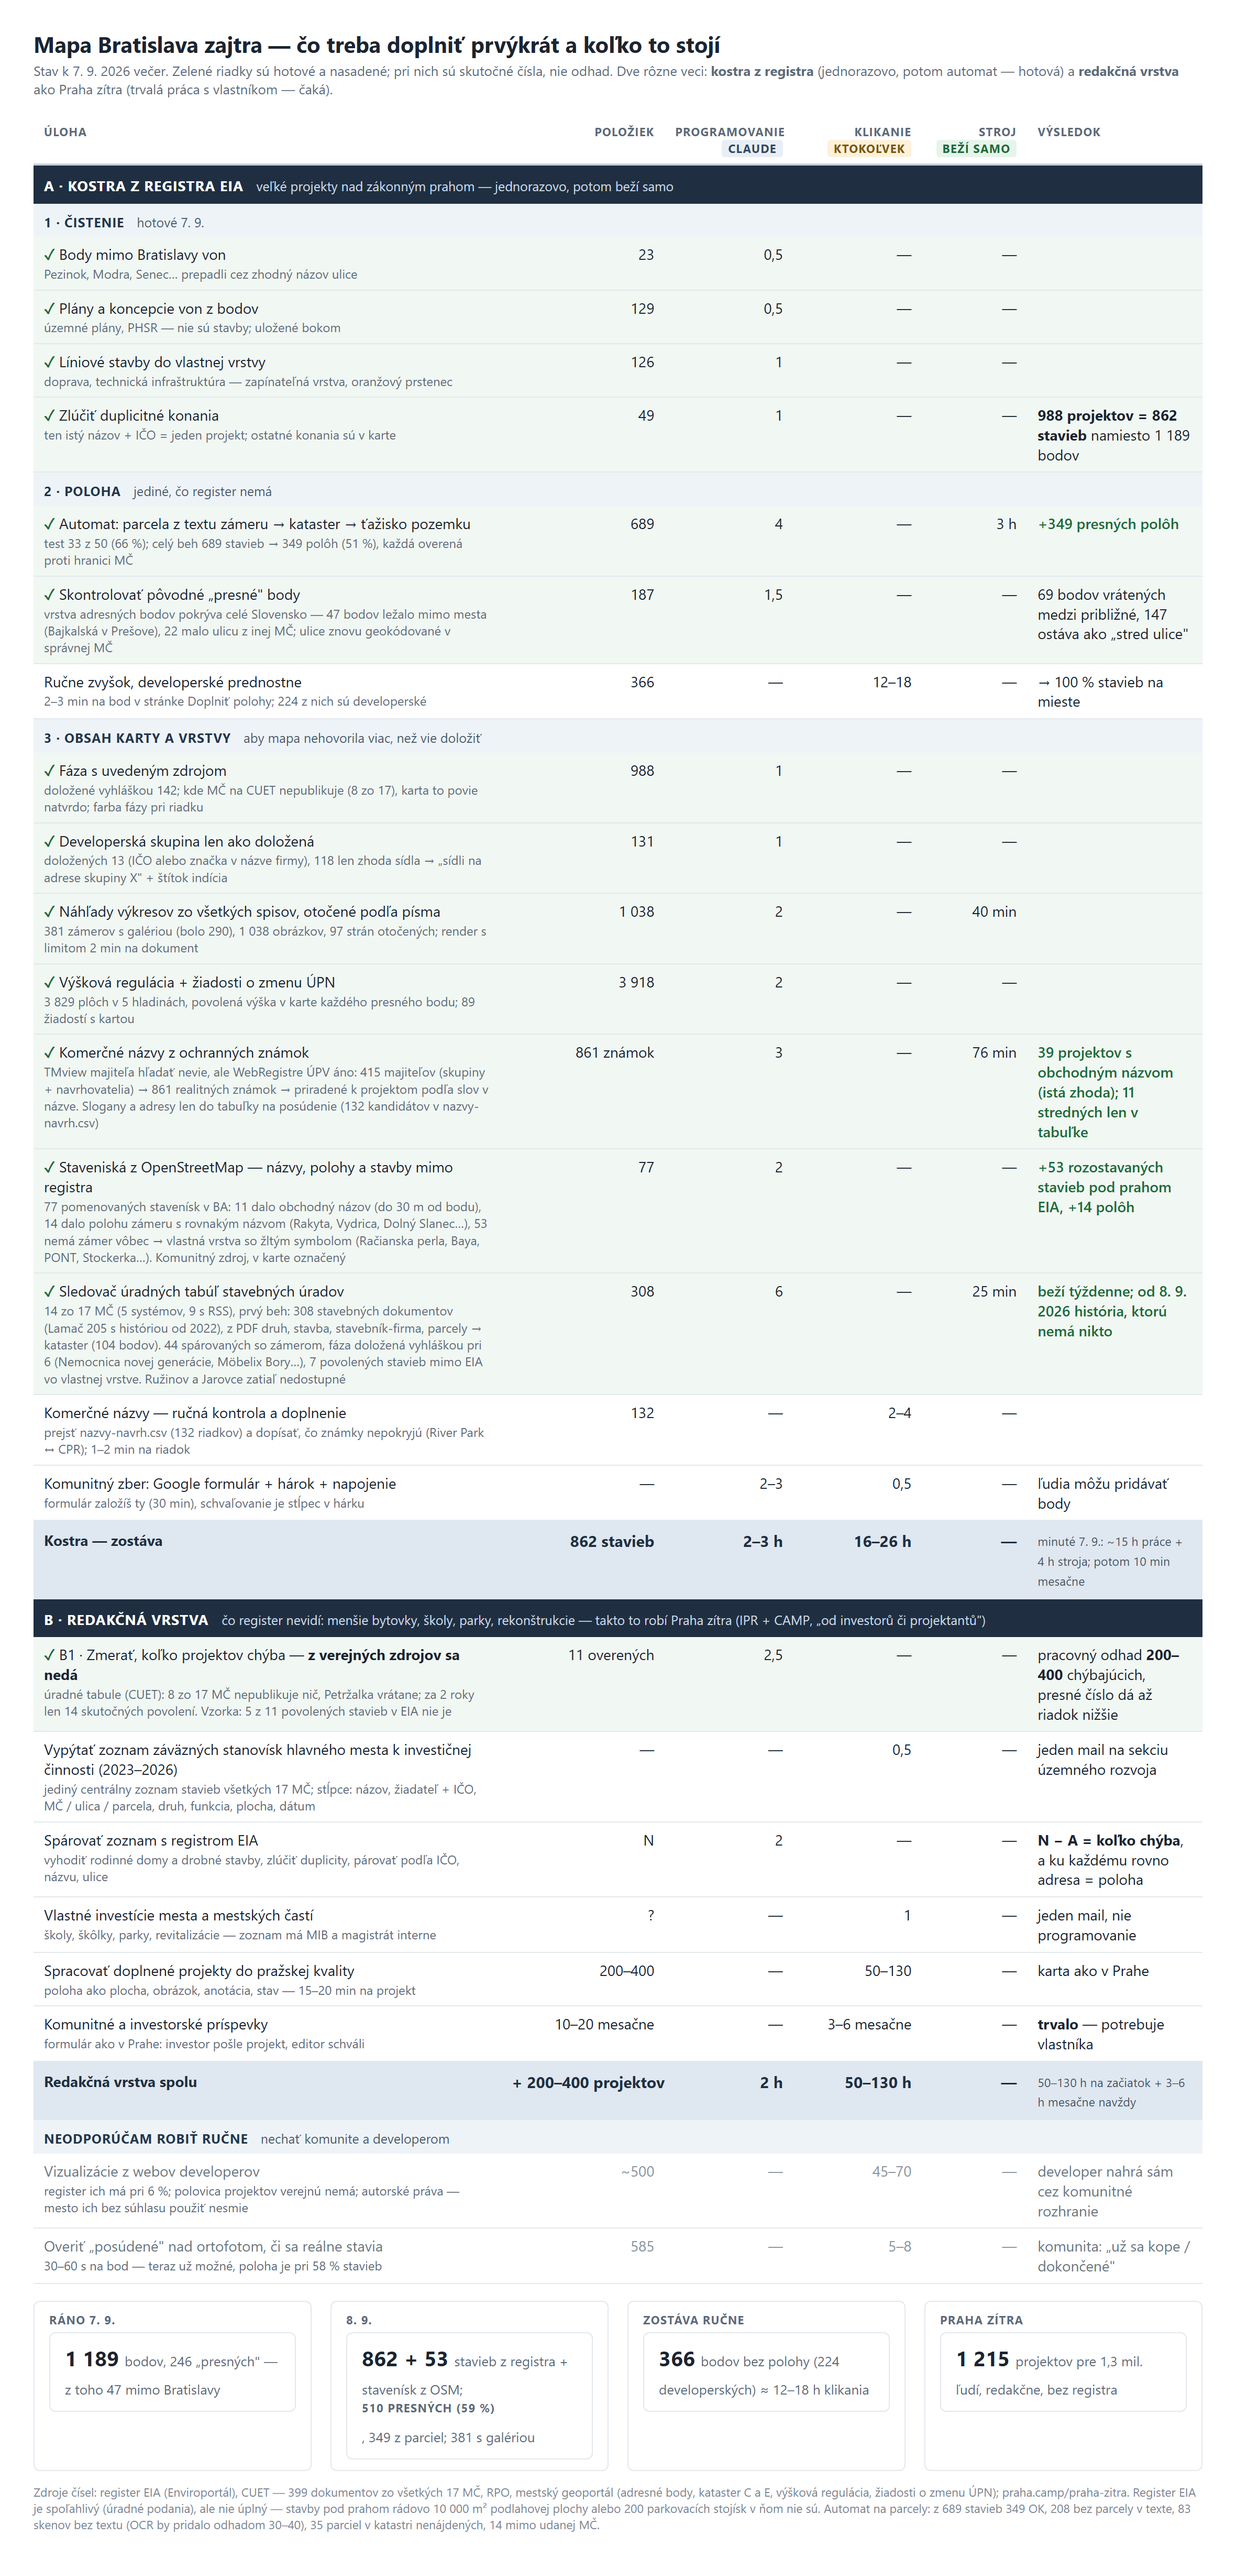
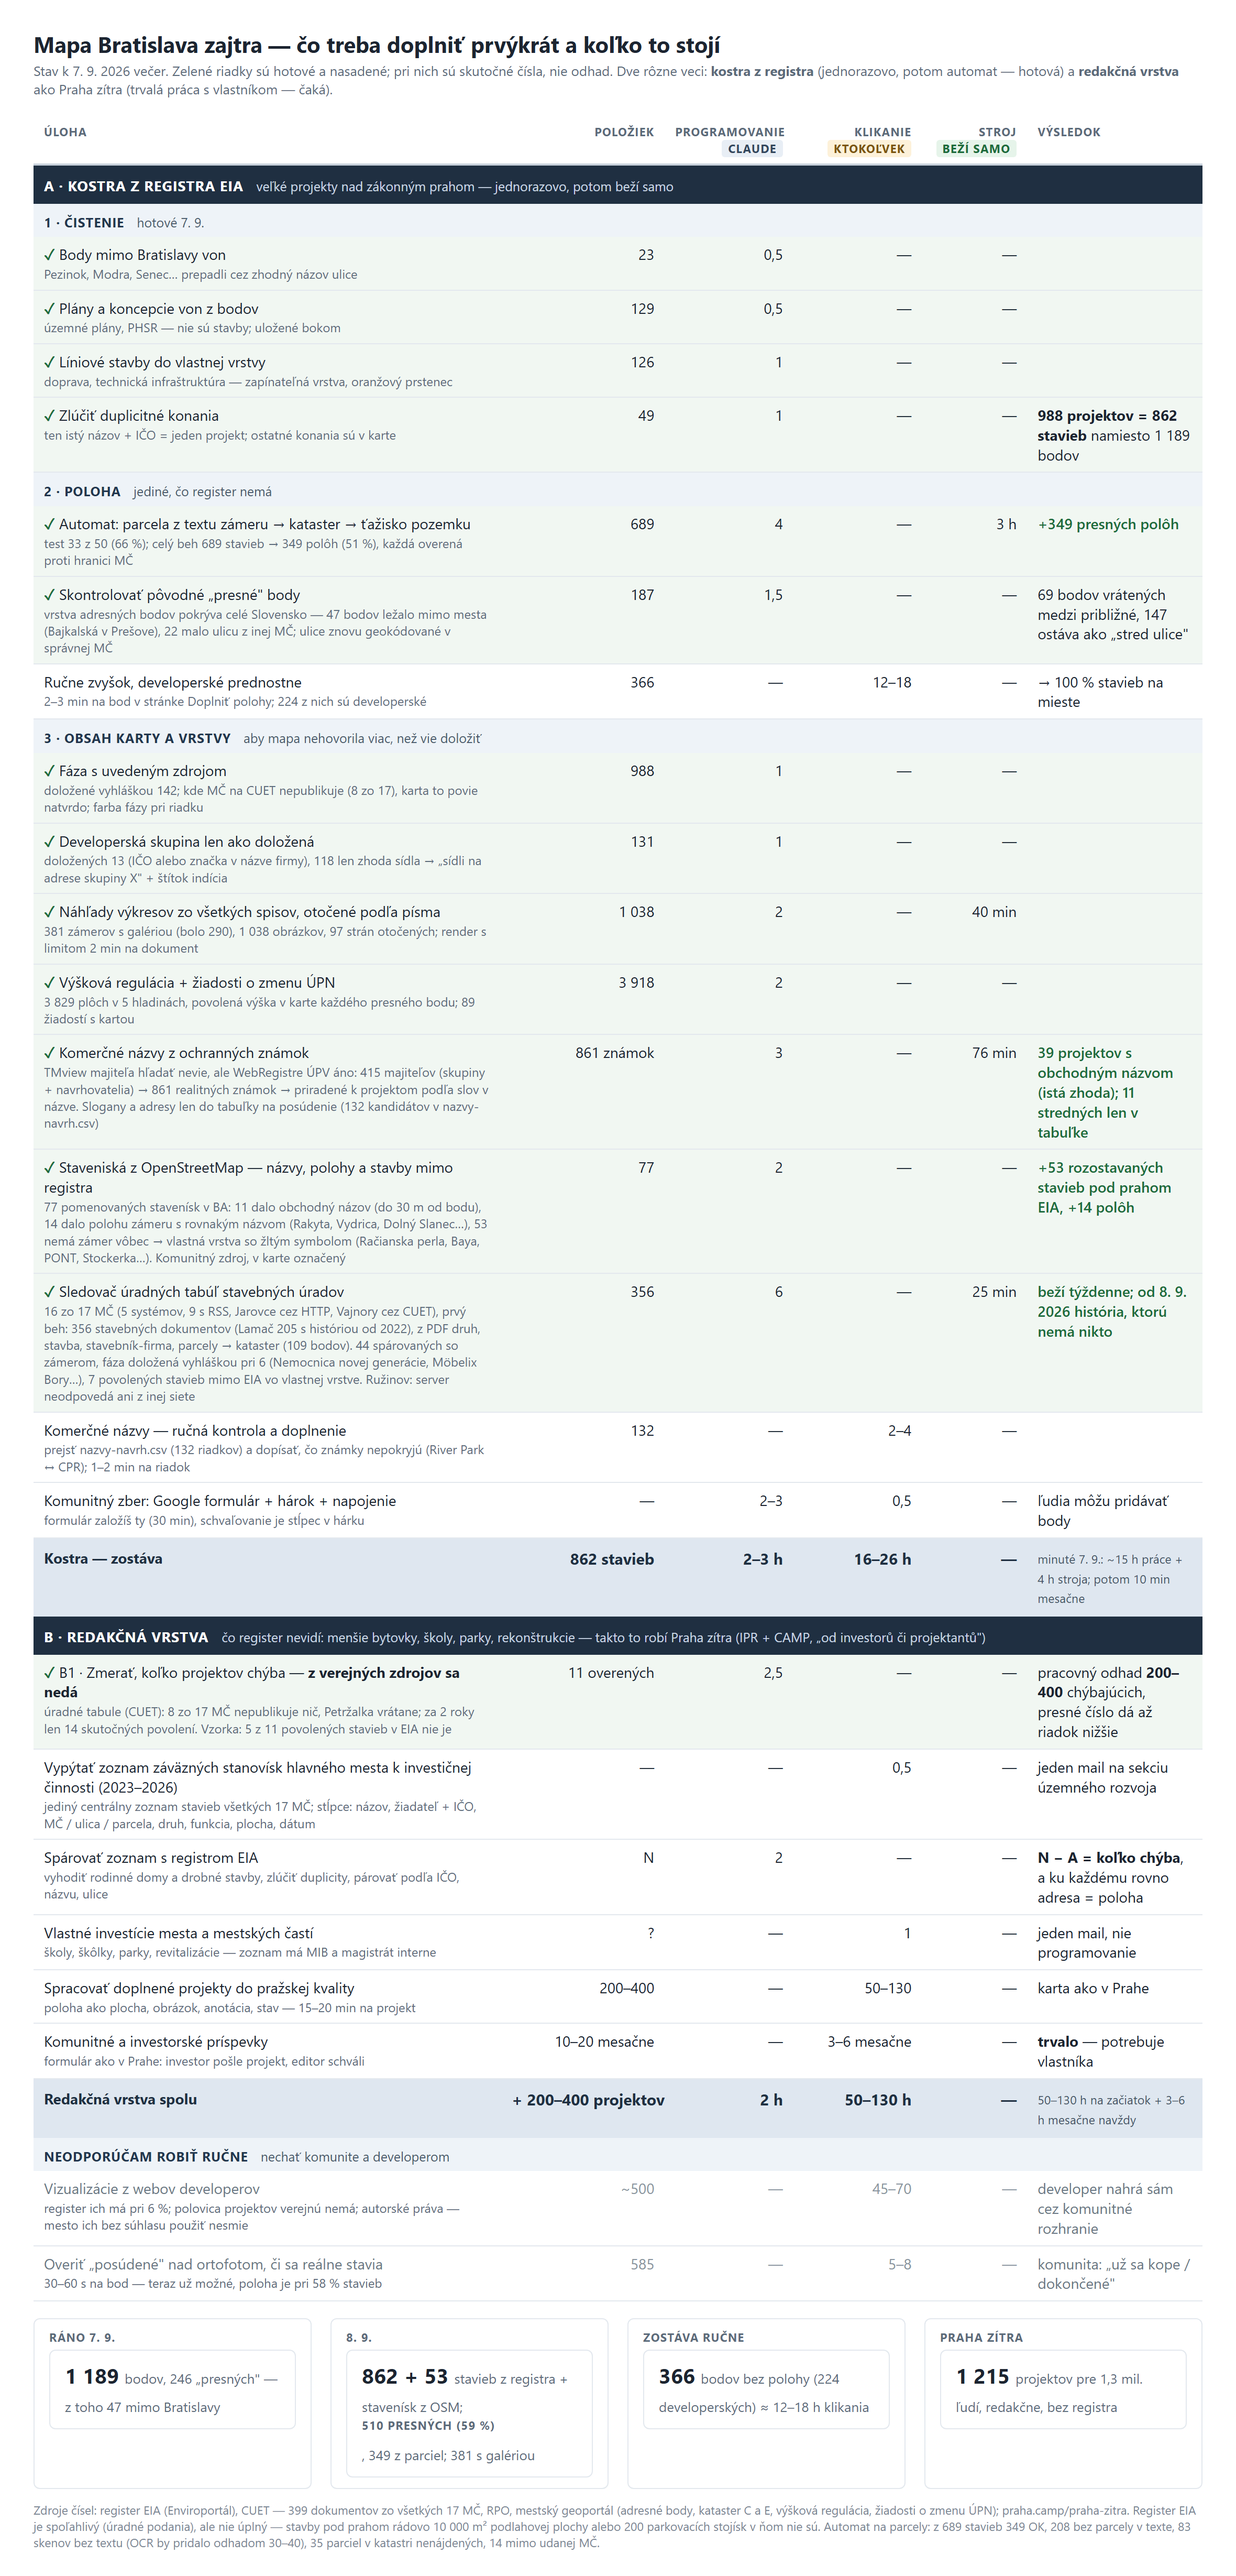
Sledovac tabul: Jarovce (HTTP, windows-1250) a Vajnory (CUET), 16 zo 17 MC

diff --git a/dokumenty/tabule_sledovac.py b/dokumenty/tabule_sledovac.py
@@ -64,8 +64,11 @@ ZDROJE = [
     ("Lamač", "alejtech", ["https://www.lamac.sk/samosprava/zverejnovanie/uradna-tabula-stavebneho-uradu"]),
     ("Rusovce", "rusovce", ["https://www.bratislava-rusovce.sk/uradna-tabula"]),
     ("Rača", "raca", ["https://www.raca.sk/uradna-tabula/"]),
-    # Ružinov a Jarovce: weby z tejto siete neodpovedaju (8. 9. 2026) — doplnit
-    # Vajnory: publikuje len na CUET
+    # Jarovce: HTTPS (443) z tejto siete neodpoveda, obycajne HTTP ide; stranka je windows-1250
+    ("Jarovce", "jarovce", ["http://www.jarovce.sk/?page=news"]),
+    # Vajnory: vlastnu tabulu nemaju, publikuju len na CUET
+    ("Vajnory", "cuet", ["Mestská časť Bratislava - Vajnory"]),
+    # Ružinov: server neodpoveda na 80 ani 443 (ani z inej siete) — doplnit, ked ozije
 ]
 STAVEBNE = re.compile(r"stavebn|územn[eé]\s+rozhod|uzemn[eé]\s+rozhod|kolaud|povolen|rozhodnut|"
                       r"oznámenie o začatí|oznamenie o zacati|zmena stavby|dodatočn|umiestnen", re.I)
@@ -113,7 +116,11 @@ def get(u, binarny=False, cas=40):
     try:
         with ur.urlopen(ur.Request(u, headers={"User-Agent": UA, "Accept-Language": "sk"}), timeout=cas, context=CTX) as o:
             d = o.read(16_000_000)
-            return (o.geturl(), d) if binarny else (o.geturl(), d.decode("utf-8", "replace"))
+            if binarny:
+                return o.geturl(), d
+            # stare weby (Jarovce) su vo windows-1250
+            kod = "windows-1250" if re.search(rb"charset=[\"']?windows-1250", d[:4000], re.I) else "utf-8"
+            return o.geturl(), d.decode(kod, "replace")
     except Exception as e:
         return u, (b"" if binarny else "")
 
@@ -241,8 +248,64 @@ def z_raca(u):
     return von
 
 
+def z_jarovce(u):
+    """Bloky „(19.08.2026) VEREJNÁ VYHLÁŠKA" s odkazom na PDF a popisom stavby.
+    Cesty k PDF obsahuju medzery, treba ich zakodovat."""
+    uu, h = get(u)
+    von = []
+    for blok in re.findall(r'<div class="middle-column-box-green">(.*?)</div>\s*(?:<br/?>)?\s*(?=<div class="middle-column-box|</div>)', h, re.S):
+        m = re.search(r'\((\d{2}\.\d{2}\.\d{4})\)\s*([^<]*)', blok)
+        if not m:
+            continue
+        odk = re.findall(r'<a href="([^"]+)">(.*?)</a>', blok, re.S)
+        if not odk:
+            continue
+        href, text = odk[0]
+        pdf = up.urljoin(uu, up.quote(H.unescape(href), safe="/:?=&%"))
+        popis = cist(re.sub(r"<a .*?</a>", "", blok.split("</a>", 1)[1] if "</a>" in blok else ""))
+        nazov = (cist(text) + " " + popis).strip(" -–")
+        von.append({"nazov": nazov[:220], "url": pdf, "datum": datum_iso(m.group(1)), "kategoria": cist(m.group(2)), "pdf": [pdf]})
+    return von
+
+
+def z_cuet(publisher):
+    """CUET pre MC bez vlastnej tabule (Vajnory) — rovnaky dopyt ako v cuet_b1.py."""
+    import http.cookiejar as cj
+    jar = cj.CookieJar(); op = ur.build_opener(ur.HTTPCookieProcessor(jar), ur.HTTPSHandler(context=CTX))
+    von = []
+    for dopyt in ("stavebné povolenie", "územné rozhodnutie", "kolaudačné"):
+        for strana in range(1, 6):
+            p = {"FullText": dopyt, "MainSearchForm": "true", "PublisherName": publisher}
+            if strana > 1:
+                p["page"] = strana
+            try:
+                h = op.open(ur.Request("https://cuet.slovensko.sk/sk/?" + up.urlencode(p), headers={"User-Agent": UA, "Accept-Language": "sk"}), timeout=90).read().decode("utf-8", "replace")
+            except Exception:
+                break
+            n = 0
+            for blok in re.split(r'<div class="resultItem">', h)[1:]:
+                blok = blok.split('<div class="resultItem"')[0]; z = {}
+                for m in re.finditer(r'<div class="metadataDocumentName">(.*?)</div>(.*?)</div>', blok, re.S):
+                    z[cist(m.group(1)).rstrip(":")] = cist(m.group(2))
+                odkaz = re.search(r'href="(/sk/dokument/[^"]+)"', blok)
+                nz = z.get("Názov dokumentu") or ""
+                if not nz:
+                    continue
+                n += 1
+                von.append({"nazov": (nz + " — " + (z.get("Anotácia dokumentu") or ""))[:220], "url": ("https://cuet.slovensko.sk" + odkaz.group(1)) if odkaz else "",
+                            "datum": datum_iso(z.get("Zverejnené od") or ""), "kategoria": "CUET", "pdf": []})
+            if n == 0:
+                break
+            time.sleep(1)
+    videne, cist_v = set(), []
+    for v in von:
+        if v["url"] and v["url"] not in videne:
+            videne.add(v["url"]); cist_v.append(v)
+    return cist_v
+
+
 PARSERY = {"trimel": z_trimel, "rss": z_rss, "uradne": z_rss, "wp-subory": z_wp_subory, "alejtech": z_alejtech,
-           "rusovce": z_rusovce, "raca": z_raca}
+           "rusovce": z_rusovce, "raca": z_raca, "jarovce": z_jarovce, "cuet": z_cuet}
 
 
 # ── zber ────────────────────────────────────────────────────────────
@@ -482,7 +545,9 @@ for kl, z in archiv.items():
         vrstva.append({"type": "Feature", "geometry": {"type": "Point", "coordinates": e["bod"]},
                        "properties": {"n": e.get("stavba") or z["nazov"][:120], "druh": e["druh"], "mc": z["mc"], "datum": z.get("datum", ""),
                                       "stavebnik": e.get("stavebnik", ""), "ico": e.get("ico", ""), "parcely": ", ".join(e.get("parcely", [])[:5]),
-                                      "ku": e.get("ku") or "", "url": (z.get("pdf") or [z["url"]])[0], "detail": z["url"], "id": kl}})
+                                      # verejny odkaz vedie na stranku tabule, nie priamo na PDF — nazvy suborov
+                                      # obcas nesu mena osob („2026-08-18 Dorotovic SZ.pdf")
+                                      "ku": e.get("ku") or "", "url": z["url"], "detail": z["url"], "id": kl}})
 json.dump(archiv, open(ARCHIV, "w", encoding="utf-8"), ensure_ascii=False, indent=1)
 json.dump(gj, open(os.path.join(MAPA, "zamery.geojson"), "w", encoding="utf-8"), ensure_ascii=False, separators=(",", ":"))
 json.dump({"type": "FeatureCollection", "features": vrstva}, open(os.path.join(MAPA, "tabule-stavby.geojson"), "w", encoding="utf-8"),

diff --git a/dokumenty/README.md b/dokumenty/README.md
@@ -27,4 +27,4 @@ HTML odhadu sa dá po úprave vyrenderovať do PNG cez Chrome:
 
 8. `znamky_upv.py` — ochranné známky developerov z WebRegistrov ÚPV SR podľa majiteľa (415 majiteľov → 861 realitných známok, `znamky_upv.json`). Server vracia 500 bez session cookie a bez plnej sady parametrov z prehliadača.
 9. `znamky_priradenie.py` — priradí známky k projektom podľa slov v názve; do mapy (`nazvy-obchodne.json`) idú len isté zhody, slogany a adresy ostávajú v `nazvy-navrh.csv` na posúdenie.10. `osm_staveniska.py` — pomenované staveniská z OpenStreetMap (Overpass, `landuse=construction` + `name`): do 30 m od presného bodu → obchodný názov (ak projekt nemá známku), rovnaký názov ako zámer s približnou polohou v tej istej MČ → poloha zámeru, bez zámeru → vrstva `osm-staveniska.geojson` (stavby pod prahom EIA). Spúšťať mesačne, OSM sa mení rýchlo. Zdroj s ID `osm` v MapLibre patrí podkladu — vrstva používa `osm-st`.11. `tabule_prieskum.py` — prieskum úradných tabúľ 17 MČ (výstup `tabule_prieskum.md`).
-12. `tabule_sledovac.py` — sledovač úradných tabúľ stavebných úradov (14 MČ, 5 systémov: trimel, AlejTech, WordPress, Galileo, uradne.sk + Rusovce). Archív `tabule_zaznamy.json` (vyhlášky z tabúľ po 15 dňoch miznú — archív je jediná história), z PDF druh rozhodnutia, stavba, stavebník (len právnická osoba), parcely → kataster → bod. Záznam sediaci na zámer (IČO, parcela alebo 2 významné slová, pri remíze nič) → fáza doložená vyhláškou; bez zámeru → vrstva `tabule-stavby.geojson`. Spúšťať týždenne. Ružinov a Jarovce zatiaľ nie (weby z našej siete neodpovedali).
+12. `tabule_sledovac.py` — sledovač úradných tabúľ stavebných úradov (16 MČ: 5 systémov — trimel, AlejTech, WordPress, Galileo, uradne.sk — + Rusovce, Jarovce cez obyčajné HTTP (windows-1250), Vajnory cez CUET). Archív `tabule_zaznamy.json` (vyhlášky z tabúľ po 15 dňoch miznú — archív je jediná história), z PDF druh rozhodnutia, stavba, stavebník (len právnická osoba), parcely → kataster → bod. Záznam sediaci na zámer (IČO, parcela alebo 2 významné slová, pri remíze nič) → fáza doložená vyhláškou; bez zámeru → vrstva `tabule-stavby.geojson`. Spúšťať týždenne. Ružinov zatiaľ nie — server neodpovedá na 80 ani 443, ani z inej siete.
